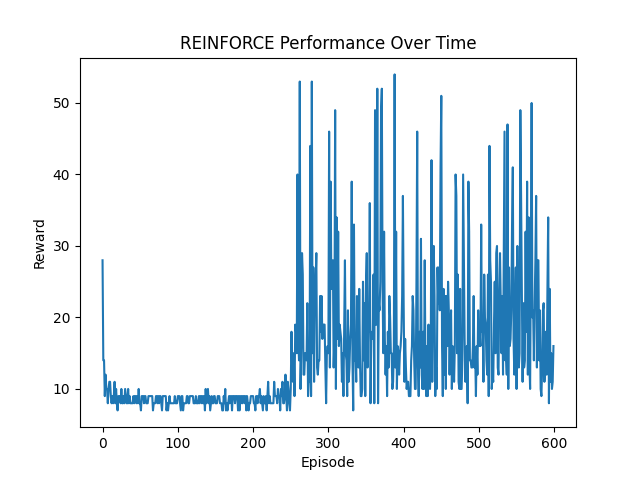
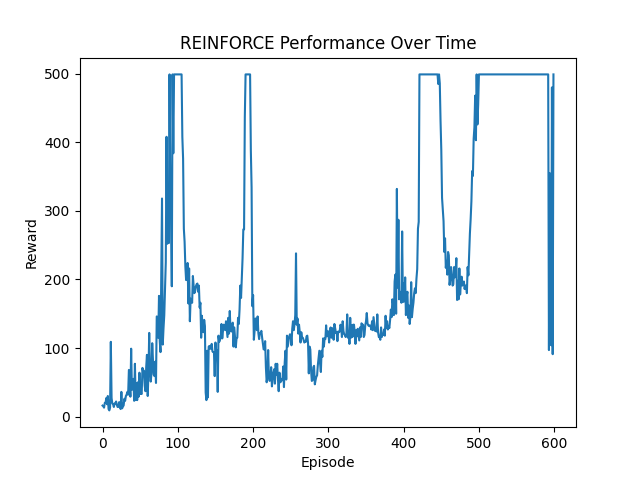
fixed bug reinforce

diff --git a/src/agents/reinforce.py b/src/agents/reinforce.py
@@ -54,13 +54,13 @@ class ReinforceAgent:
         self.discount_factor = discount_factor
 
         self.policy_net = PolicyNetwork(n_observations, n_actions)
-        self.optimizer = optim.AdamW(self.policy_net.parameters(), lr = self.learning_rate,
-                                      amsgrad = True)
+        self.optimizer = optim.AdamW(self.policy_net.parameters(), lr = self.learning_rate)
         
         self.probs = []
         self.rewards = []
 
     def select_action(self, state):
+        state = torch.tensor(state, dtype=torch.float32).unsqueeze(0)
         probs = self.policy_net(state)
         c = Categorical(probs)
         action = c.sample()
@@ -93,11 +93,10 @@ class ReinforceAgent:
         episode_durations = []
         for i_episode in tqdm(range(num_episodes)):
             state, _ = env.reset()
-            state = torch.tensor(state, dtype=torch.float32).unsqueeze(0)
 
             for t in count():
                 action = self.select_action(state)
-                obs, reward, terminated, truncated, info = env.step(action)
+                state, reward, terminated, truncated, info = env.step(action)
                 self.rewards.append(reward)
 
                 done = terminated or truncated 
